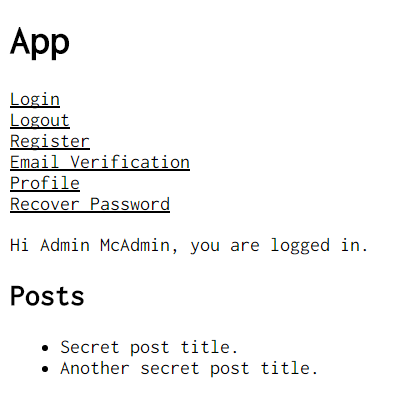
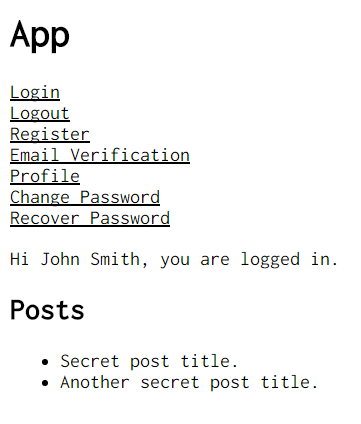
Password change added

diff --git a/client/ChangePassword.js b/client/ChangePassword.js
@@ -1,0 +1,63 @@
+import React from 'react'
+import { changePassword } from 'meteor-apollo-accounts'
+import { ApolloClient, Notification } from './index'
+
+class ChangePassword extends React.Component {
+
+  async change(event){
+    event.preventDefault()
+
+    let { oldPassword, newPassword, repeatPassword } = this.refs
+    oldPassword = oldPassword.value
+    newPassword = newPassword.value
+    repeatPassword = repeatPassword.value
+
+    if(newPassword === repeatPassword){
+      try {
+        const response = await changePassword({ oldPassword, newPassword }, ApolloClient)
+        Notification.success(response)
+        ApolloClient.resetStore()
+        browserHistory.push('/login')
+      } catch (error) {
+        Notification.error(error)
+      }
+    }else{
+      Notification.error('Passwords do not match.')
+    }
+  }
+
+  render() {
+    return (
+      <div>
+        <p>Set your new password.</p>
+        <form onSubmit={this.change.bind(this)}>
+
+          <label>Old Password: </label>
+          <input
+          type="password"
+          required="true"
+          ref="oldPassword" />
+          <br />
+
+          <label>New Password: </label>
+          <input
+          type="password"
+          required="true"
+          ref="newPassword" />
+          <br />
+
+          <label>Repeat Password: </label>
+          <input
+          type="password"
+          required="true"
+          ref="repeatPassword" />
+          <br />
+
+          <button type="submit">Change Password</button>
+        </form>
+      </div>
+    )
+  }
+}
+
+export default ChangePassword

diff --git a/client/App.js b/client/App.js
@@ -10,22 +10,19 @@ class App extends React.Component {
     return loading ? (<p>Loading...</p>) : (
       <div>
         { me ? <p>Hi {me.profile.firstname} {me.profile.lastname}, you are logged in.</p> : <p>You are logged out.</p> }
-        {(()=>{
-          if(posts){
-            return (
-              <div>
-                <h2>Posts</h2>
-                <ul>
-                  {posts.map((post) => {
-                    return (
-                      <li key={post._id}>{post.title}</li>
-                    )
-                  })}
-                </ul>
-              </div>
-            )
-          }
-        })()}
+        { (me && !me.emails[0].verified) ? <p>Please verify your email address.</p> : ''}
+        { posts ? (
+          <div>
+            <h2>Posts</h2>
+            <ul>
+              {posts.map((post) => {
+                return (
+                  <li key={post._id}>{post.title}</li>
+                )
+              })}
+            </ul>
+          </div>
+        ) : '' }
       </div>
     )
   }
@@ -41,6 +38,9 @@ query getCurrentUser {
     profile {
       firstname
       lastname
+    }
+    emails {
+      verified
     }
   }
 }

diff --git a/client/main.js b/client/main.js
@@ -3,7 +3,7 @@ import { Meteor } from 'meteor/meteor'
 import { render } from 'react-dom'
 import { ApolloProvider } from 'react-apollo'
 import { App, Layout, NotFound, Login, Register, ApolloClient,
-  Profile, EmailVerification, RecoverPassword } from './index'
+  Profile, EmailVerification, RecoverPassword, ChangePassword } from './index'
 import { Router, Route, browserHistory } from 'react-router'
 
 Meteor.startup(() => {
@@ -15,6 +15,7 @@ Meteor.startup(() => {
          <Route path="/login" component={Login} />
          <Route path="/register" component={Register} />
          <Route path="/profile" component={Profile} />
+         <Route path="/change-password" component={ChangePassword} />
          <Route path="/email-verification" component={EmailVerification} />
          <Route path="/email-verification/:token" component={EmailVerification} />
          <Route path="/recover-password" component={RecoverPassword} />

diff --git a/client/Layout.js b/client/Layout.js
@@ -31,6 +31,7 @@ class Layout extends React.Component {
             <li><Link to={`/register`}>Register</Link></li>
             <li><Link to={`/email-verification`}>Email Verification</Link></li>
             <li><Link to={`/profile`}>Profile</Link></li>
+            <li><Link to={`/change-password`}>Change Password</Link></li>
             <li><Link to={`/recover-password`}>Recover Password</Link></li>
           </ul>
           {this.props.children}

diff --git a/client/index.js b/client/index.js
@@ -8,6 +8,7 @@ import ApolloClient from './ApolloClient'
 import Profile from './Profile'
 import EmailVerification from './EmailVerification'
 import Notification from './Notification'
+import ChangePassword from './ChangePassword'
 
 export { App, Layout, Login, RecoverPassword, Register, NotFound, ApolloClient,
-Profile, EmailVerification, Notification }
+Profile, EmailVerification, Notification, ChangePassword }

diff --git a/client/main.html b/client/main.html
@@ -1,4 +1,7 @@
 
+<head>
+  <title>Meteor Apollo Accounts Example</title>
+</head>
 <body style="font-family: 'Inconsolata';">
   <div id="render-target"></div>
 </body>

diff --git a/README.md b/README.md
@@ -18,6 +18,7 @@ Blog post: [Authenticate Meteor accounts with the Apollo GraphQL API](https://ja
 * Redirect user access
 * Register new users
 * Email verification
+* Password change
 * Password reset
 * Update user profile
 
@@ -27,5 +28,6 @@ Blog post: [Authenticate Meteor accounts with the Apollo GraphQL API](https://ja
 
 ## Todo
 
-- [ ] Password change component
+- [x] Password change component
 - [ ] User redirect on Profile access and Email Verification
+- [x] Add email Verification message to App
